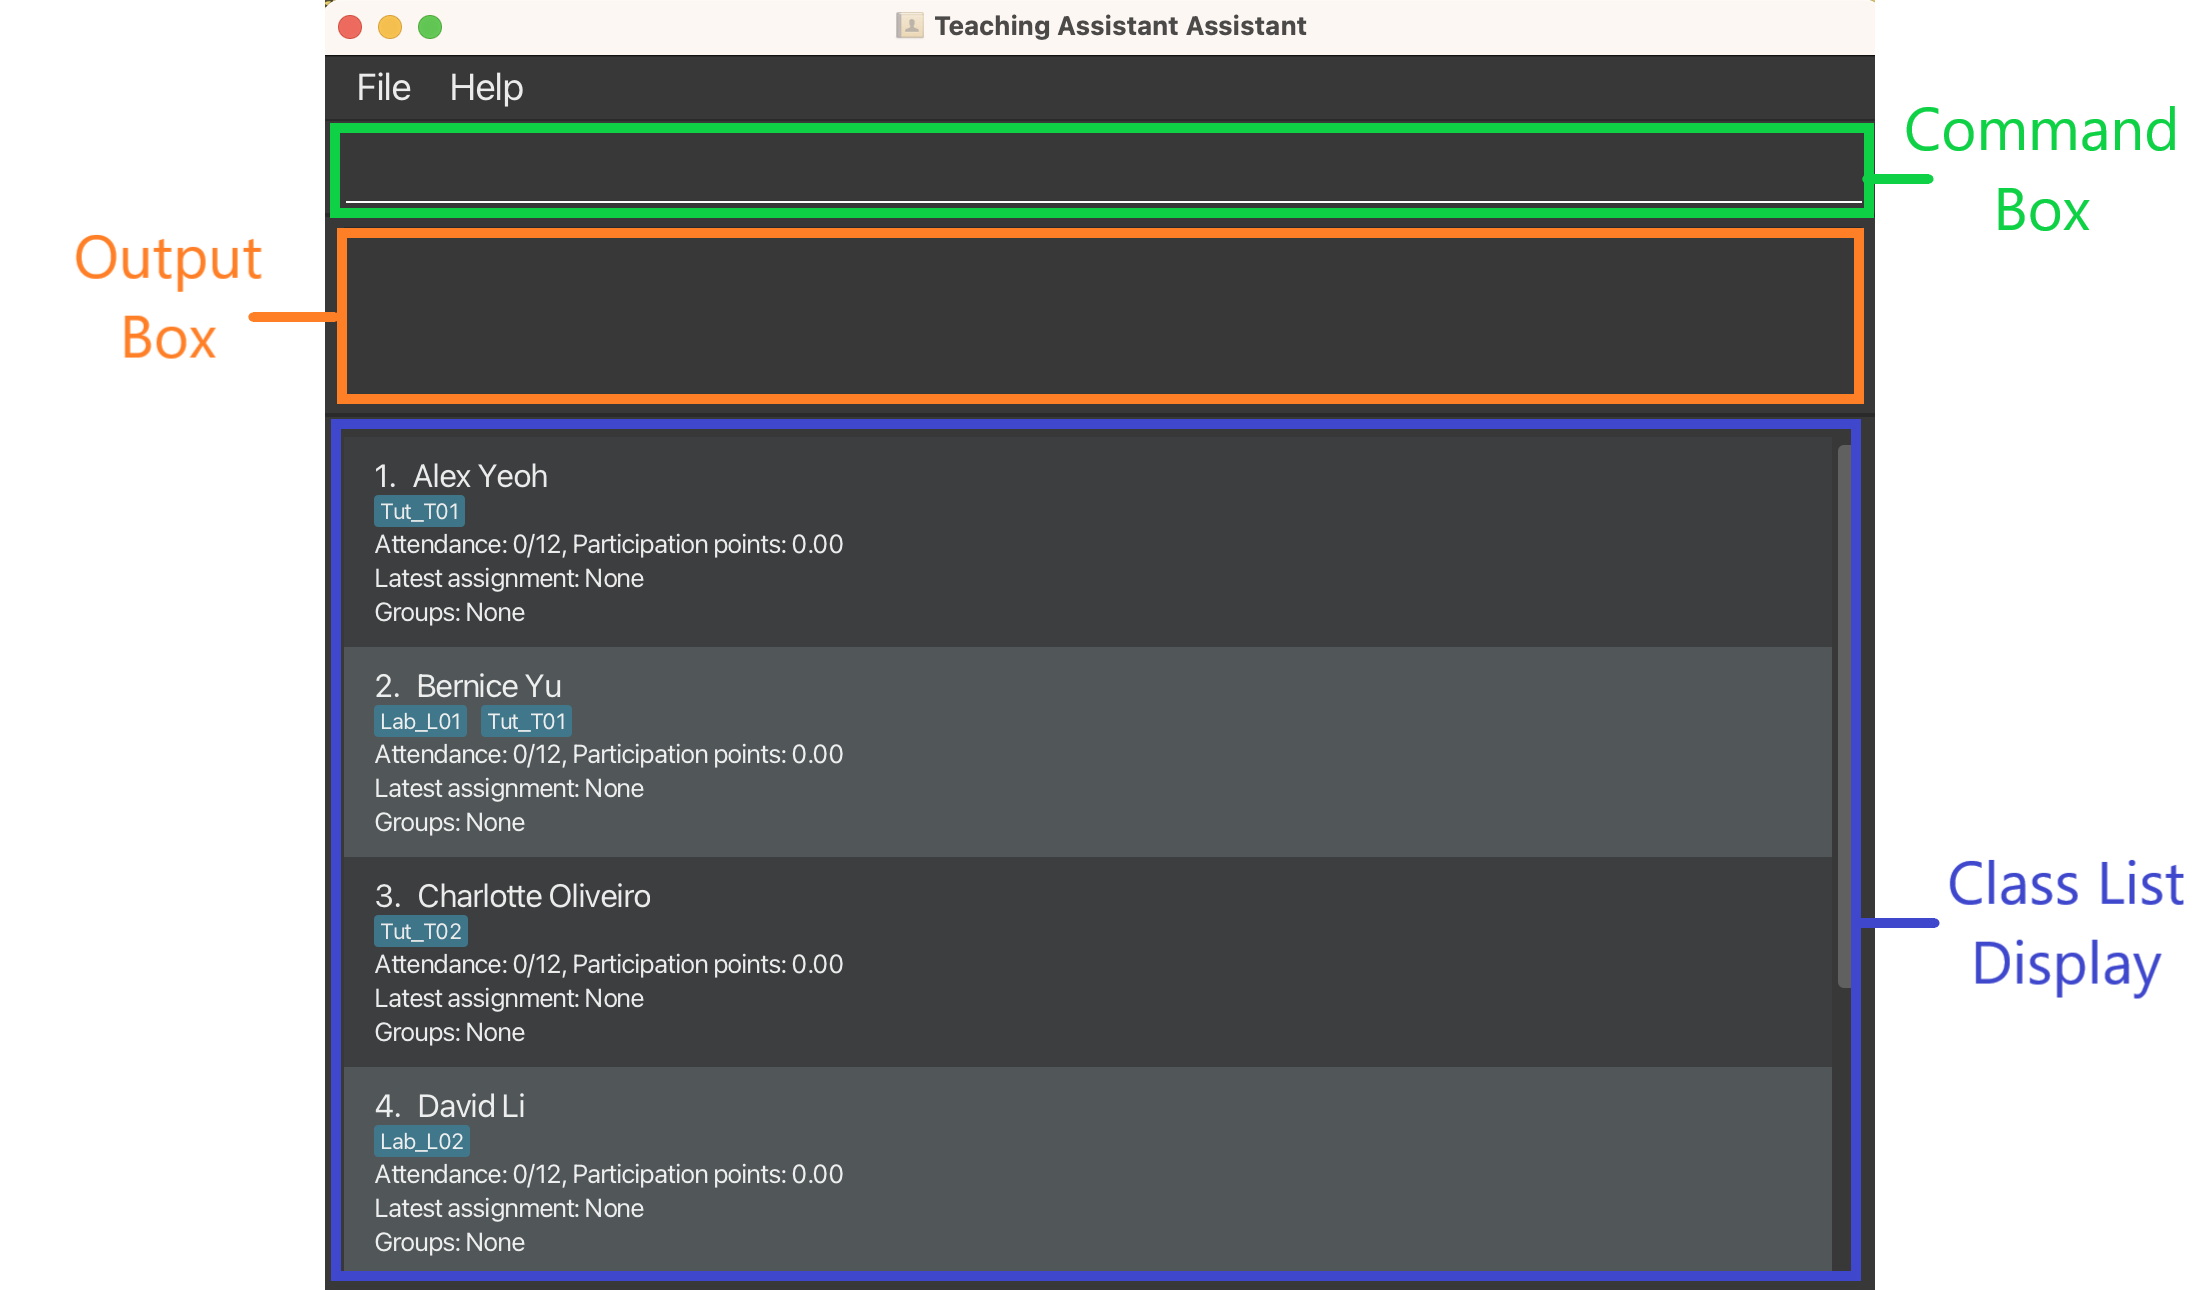
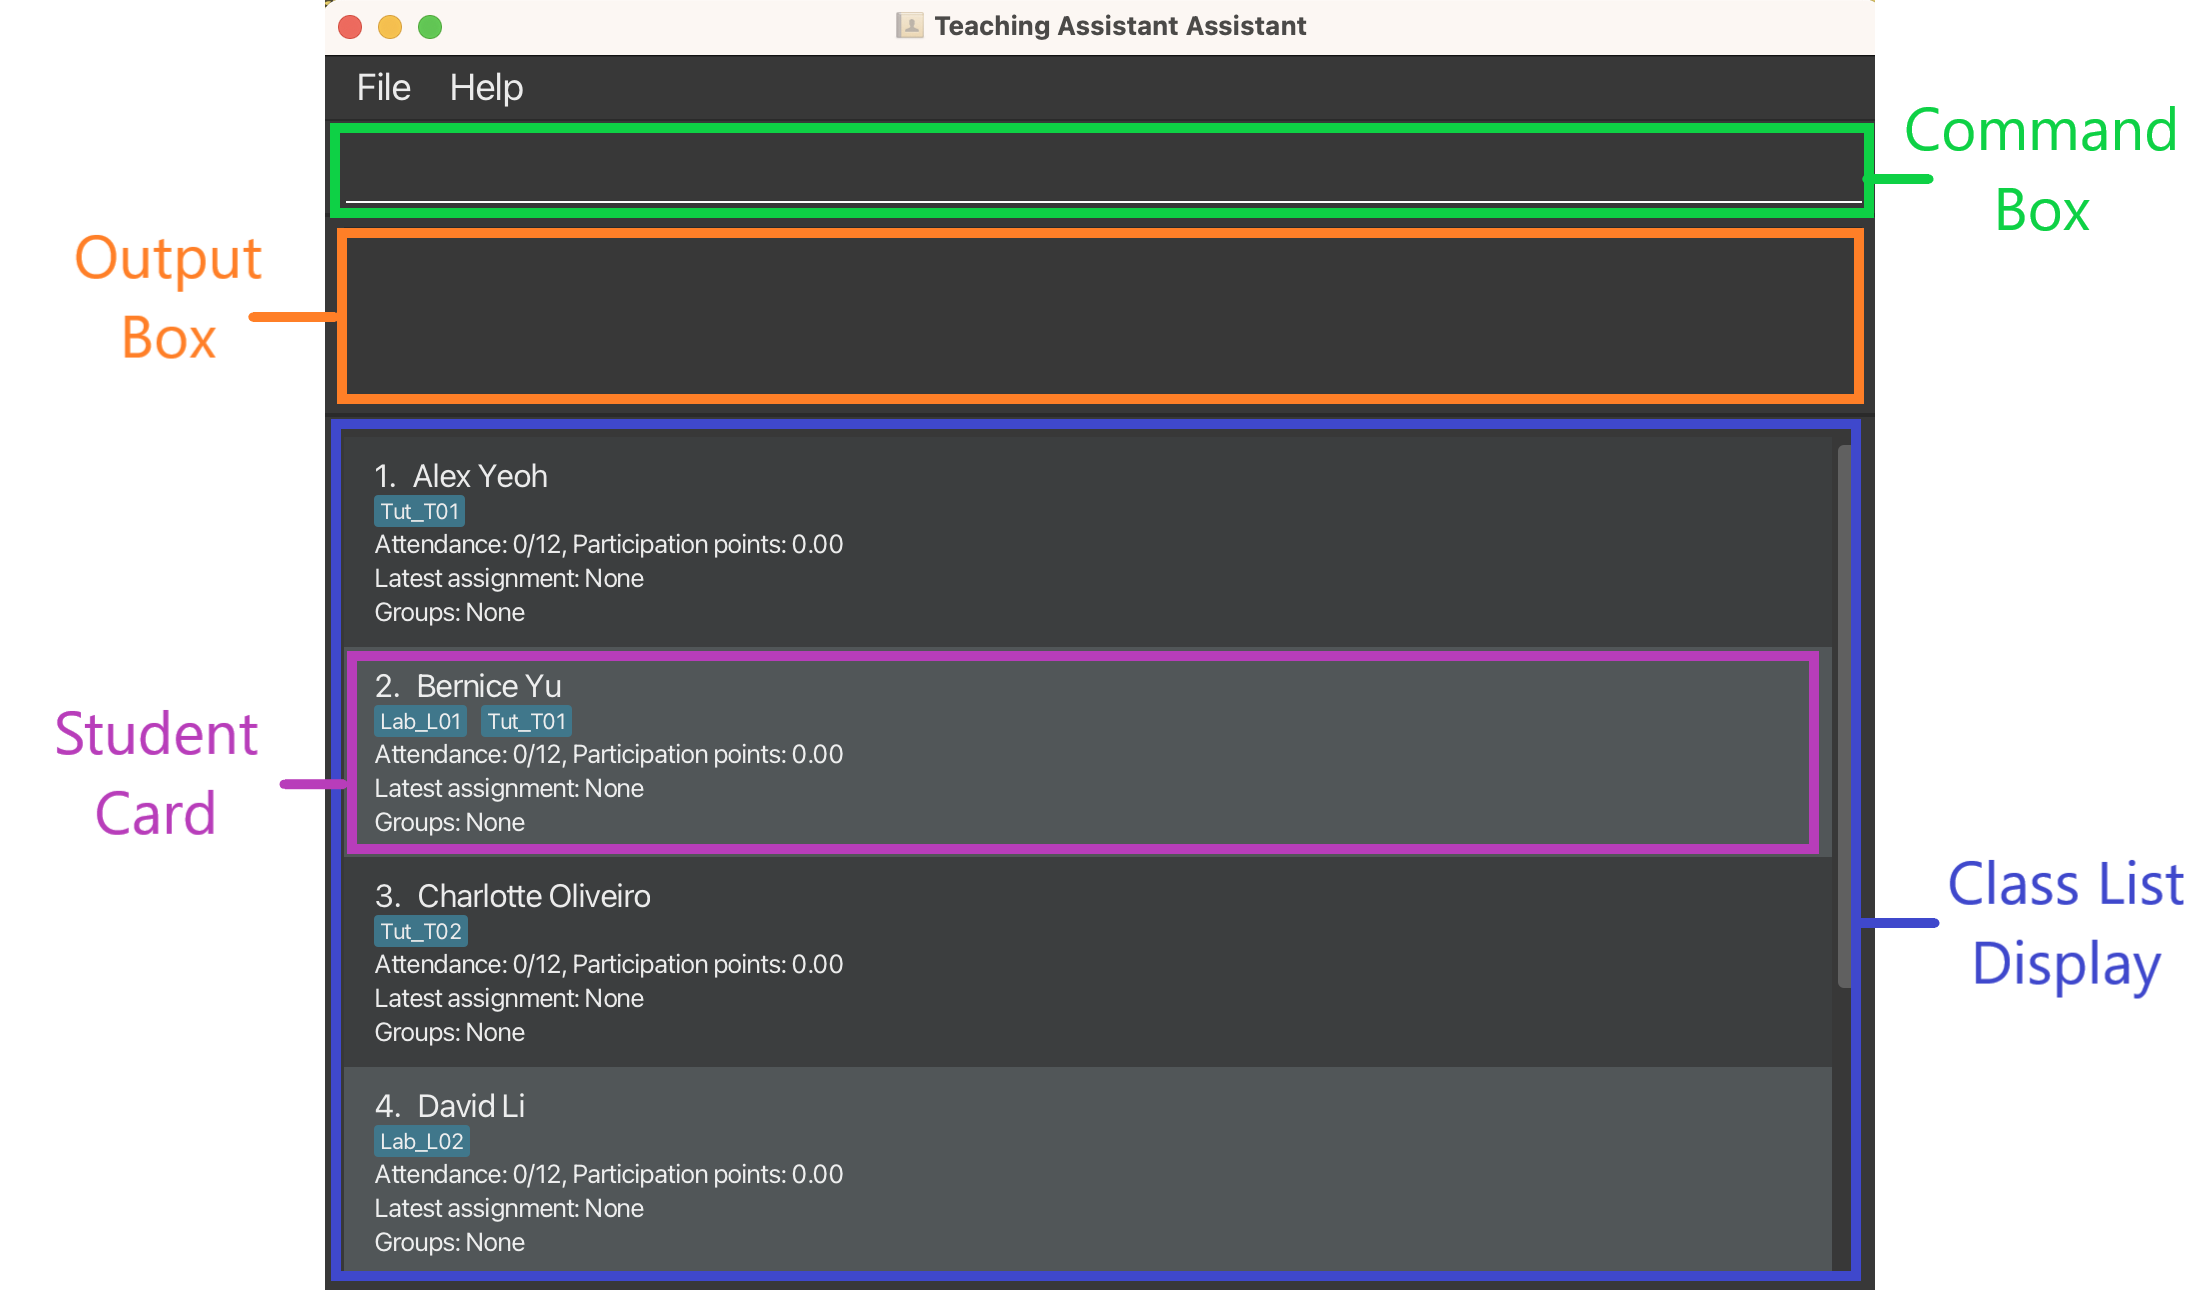
Add Planned Enhancements for `add_student` and `edit_student`

Changed region(s): [[0.1236, 0.4961, 0.8345, 0.6822], [0.0309, 0.6202, 0.1236, 0.6512], [0.0309, 0.5581, 0.1236, 0.5891]]

diff --git a/docs/UserGuide.md b/docs/UserGuide.md
@@ -4,7 +4,7 @@ title: User Guide
 ---
 
 * Table of Contents
-  {:toc}
+{:toc}
 
 
 ## **Introduction**
@@ -14,7 +14,7 @@ Teaching Assistant Assistant (TAA) is a desktop app for managing teaching assist
 With TAA, you can easily track student attendance and grades using just a keyboard, eliminating the need for multiple clicks.
 You can even view grade statistics without the use of a dedicated data analysis application!
 
-<!-- maybe can add image here -->
+![TAA logo](./images/TAA_logo.jpg)
 
 Say goodbye to the hassle of managing teaching assistant tasks and hello to increased efficiency with TAA!
 
@@ -38,6 +38,11 @@ Aside from the usual text format, this guide includes certain special formats th
 
 Callouts are identified by a coloured box containing some text.
 
+**Note**
+<div markdown="span" class="alert alert-warning">
+:page_with_curl: **Note:** Contains important information on how the application is designed to be used.
+</div>
+
 **Information**
 <div markdown="span" class="alert alert-primary">
 :information_source: **Info:** Provides information that is not essential, but may be useful (especially for advanced users!). 
@@ -46,11 +51,6 @@ Callouts are identified by a coloured box containing some text.
 **Tip**
 <div markdown="span" class="alert alert-success">
 :bulb: **Tip:** Provides recommendations on how you can use the app more effectively.
-</div>
-
-**Note**
-<div markdown="span" class="alert alert-warning">
-:page_with_curl: **Note:** Contains information on how the application is designed to be used.
 </div>
 
 **Warning**
@@ -111,6 +111,10 @@ Labelled components of the TAA GUI
 </em></figcaption>
 
 <br />
+<div markdown="span" class="alert alert-primary">
+:information_source: **Info:** Each Class List consists of 0 or more Student Cards. 
+</div>
+
 The purposes of each component, as labelled in Figure 2 above, are described in Table 1 below.
 <br />
 
@@ -120,11 +124,12 @@ Table 1
 Purposes of each GUI component
 </div>
 
-|     Component      |                              Purpose                               |
-|:------------------:|:------------------------------------------------------------------:|
-|    Command Box     |                 To accept commands from the user.                  |
-|     Output Box     |     To display the result of the commands issued by the user.      |
-| Class List Display | To display the list of students in the currently active class list |
+|     Component      |                                      Purpose                                       |
+|:------------------:|:----------------------------------------------------------------------------------:|
+|    Command Box     |                         To accept commands from the user.                          |
+|     Output Box     |             To display the result of the commands issued by the user.              |
+| Class List Display |        To display the list of students in the currently active class list.         |
+|    Student Card    | To display the relevant information for a single Student in the active class list. |
 
 
 <div markdown="span" class="alert alert-warning">
@@ -147,7 +152,7 @@ If the students being displayed are not the ones you wish to update, do remember
 <div style="text-align:center"><strong>
 Table 2
 </strong>: 
-Purposes of each GUI component
+Command syntax
 </div>
 
 |            Syntax            |                                                                      Explanation                                                                       |
@@ -163,7 +168,7 @@ Purposes of each GUI component
 </div>
 
 <div markdown="span" class="alert alert-primary">
-:information_source: **Info:** If a parameter is expected to be passed in only once, but is specified multiple times by the user, onle the last occurrence of the parameter will be taken by the application.
+:information_source: **Info:** If a parameter is expected to be passed in only once, but is specified multiple times by the user, only the last occurrence of the parameter will be taken by the application.
 </div>
 
 <div markdown="span" class="alert alert-primary">
@@ -540,7 +545,26 @@ Format: `export [-force] FILE_PATH`
 * Nothing is changed if file access denied.
 
 --------------------------------------------------------------------------------------------------------------------
+## **Appendix A: Planned Enhancements**
 
+### 1. Allow multiple students with the same name to be added
+Currently, users are unable to add a student with the same name as another student that already exists in TAA.
+This could be troubling for tutors who have two students with the exact same name in the same class.
+
+However, the current state of TAA is unable to provide sufficient information about students to distinguish between two students with the same name.
+This should be doable only after TAA also has the ability to store student photos for each student (slated for future release), which would enable users to identify students using their names and portraits.
+Therefore, we plan to implement this enhancement when TAA matures further to allow users to identify students with the same name correctly. 
+
+This would be done by allowing the commands `add_student` and `edit_student` to succeed when using an existing student name, albeit with a warning "Note: A student with the same name already exists. If this is not what you intended, please undo this operation.".
+
+### 2. Enhance input validation for the student name field
+Currently, students with the same name, but with different capitalisations and whitespace positions are treated as different entities by TAA.
+However, in the real world, this is unlikely the case. Such entities are likely to represent the same student, which can lead to confusion when users accidentally create multiple student entities for the same student as a result of a typo.
+
+Therefore, we plan to further extend the checks performed on the student name provided to the commands `add_student` and `edit_student` that treats students with the same name, but different capitalisation and/or whitespace positions to be the same student.
+Consequently, such operations will not be allowed to execute, and an error message "A student with a similar name already exists! Did you mean <student name>?" will be shown to the user instead.
+
+--------------------------------------------------------------------------------------------------------------------
 ## **Glossary**
 
 |           Term           |                                                                               Explanation                                                                                | 
